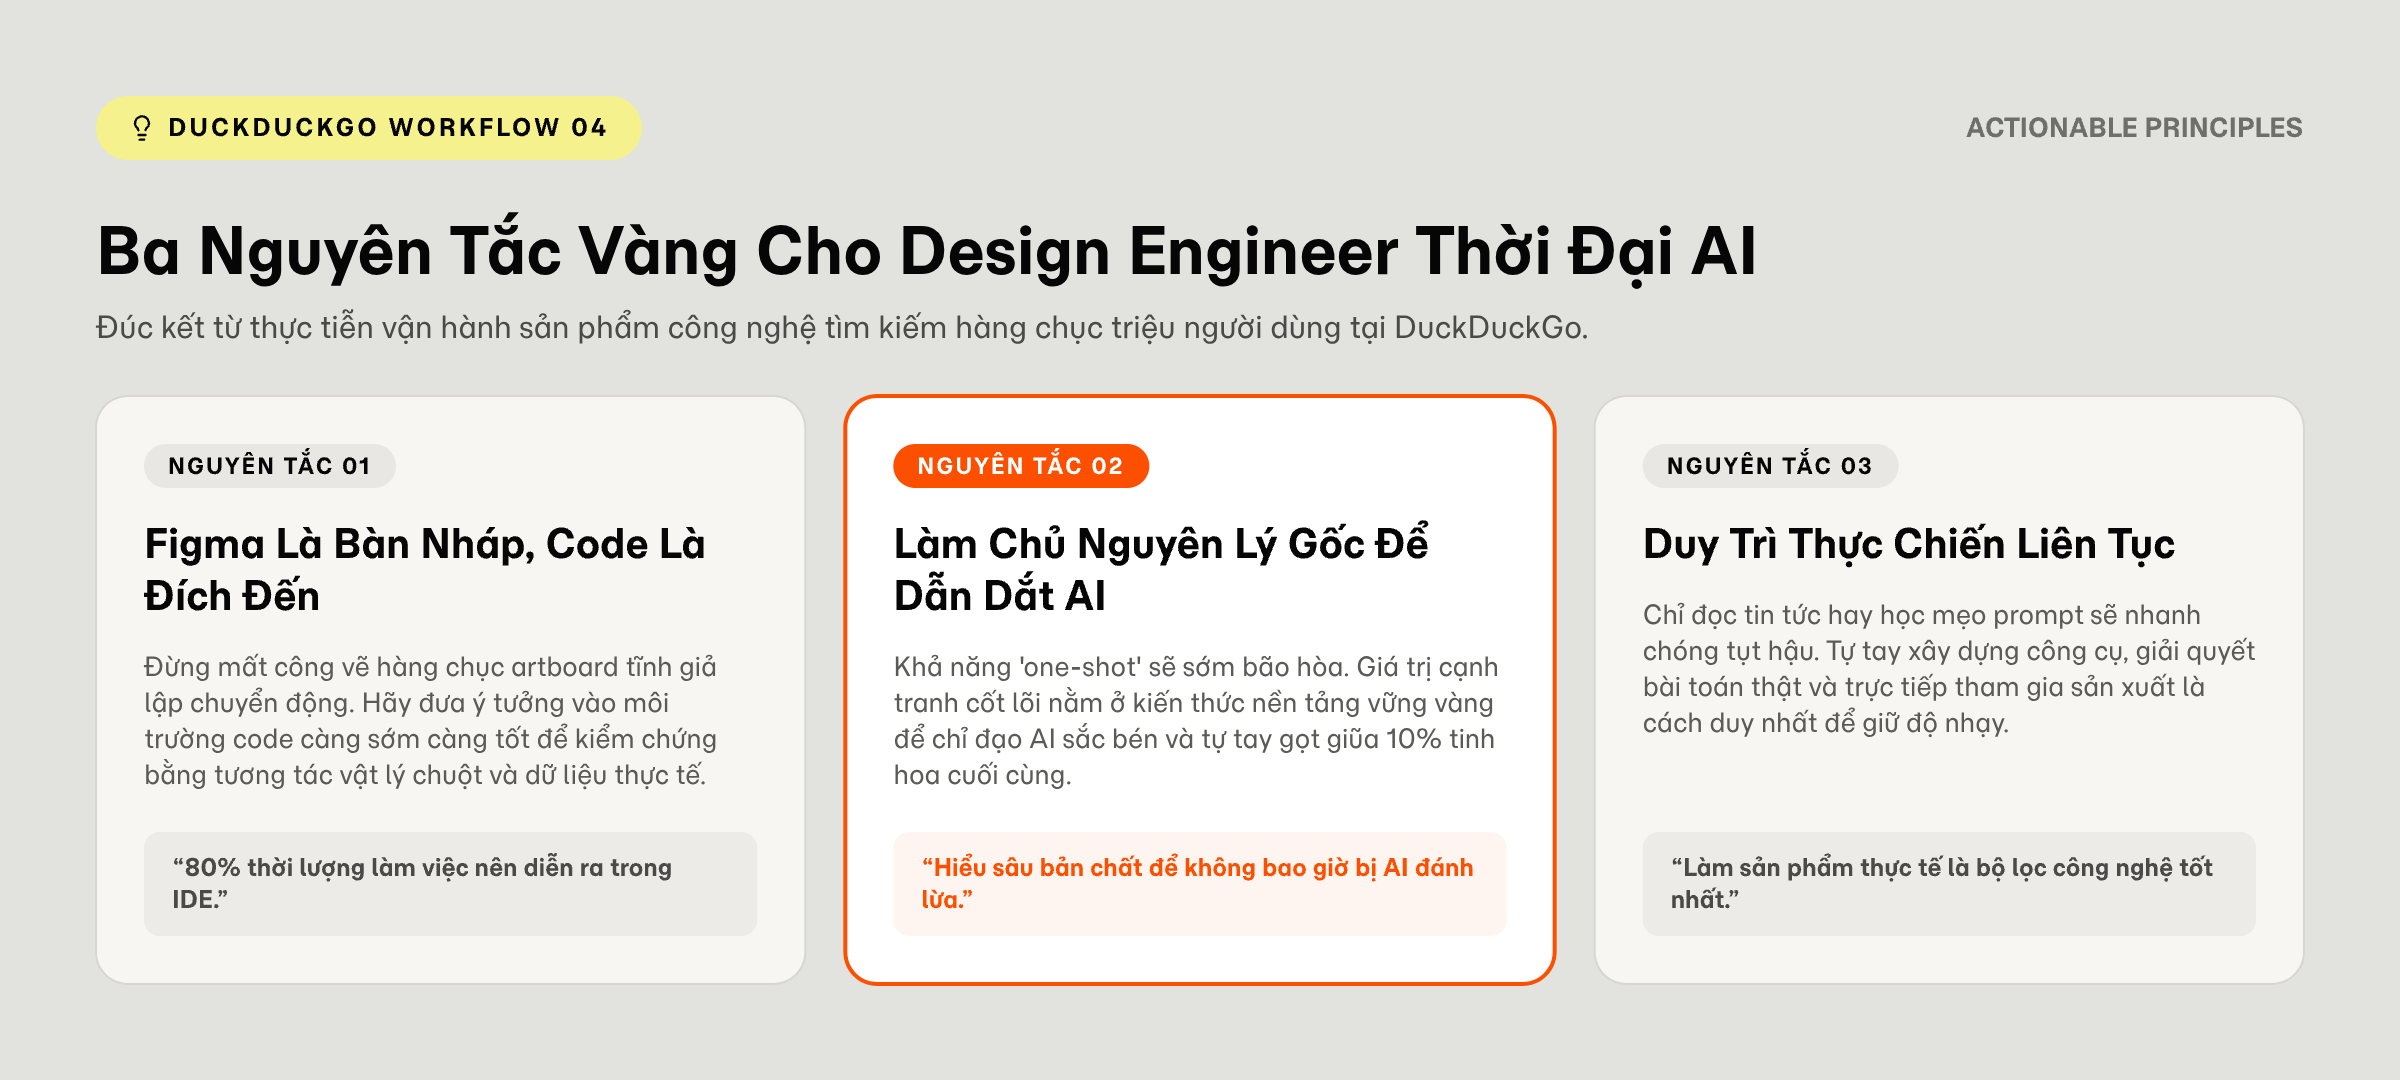
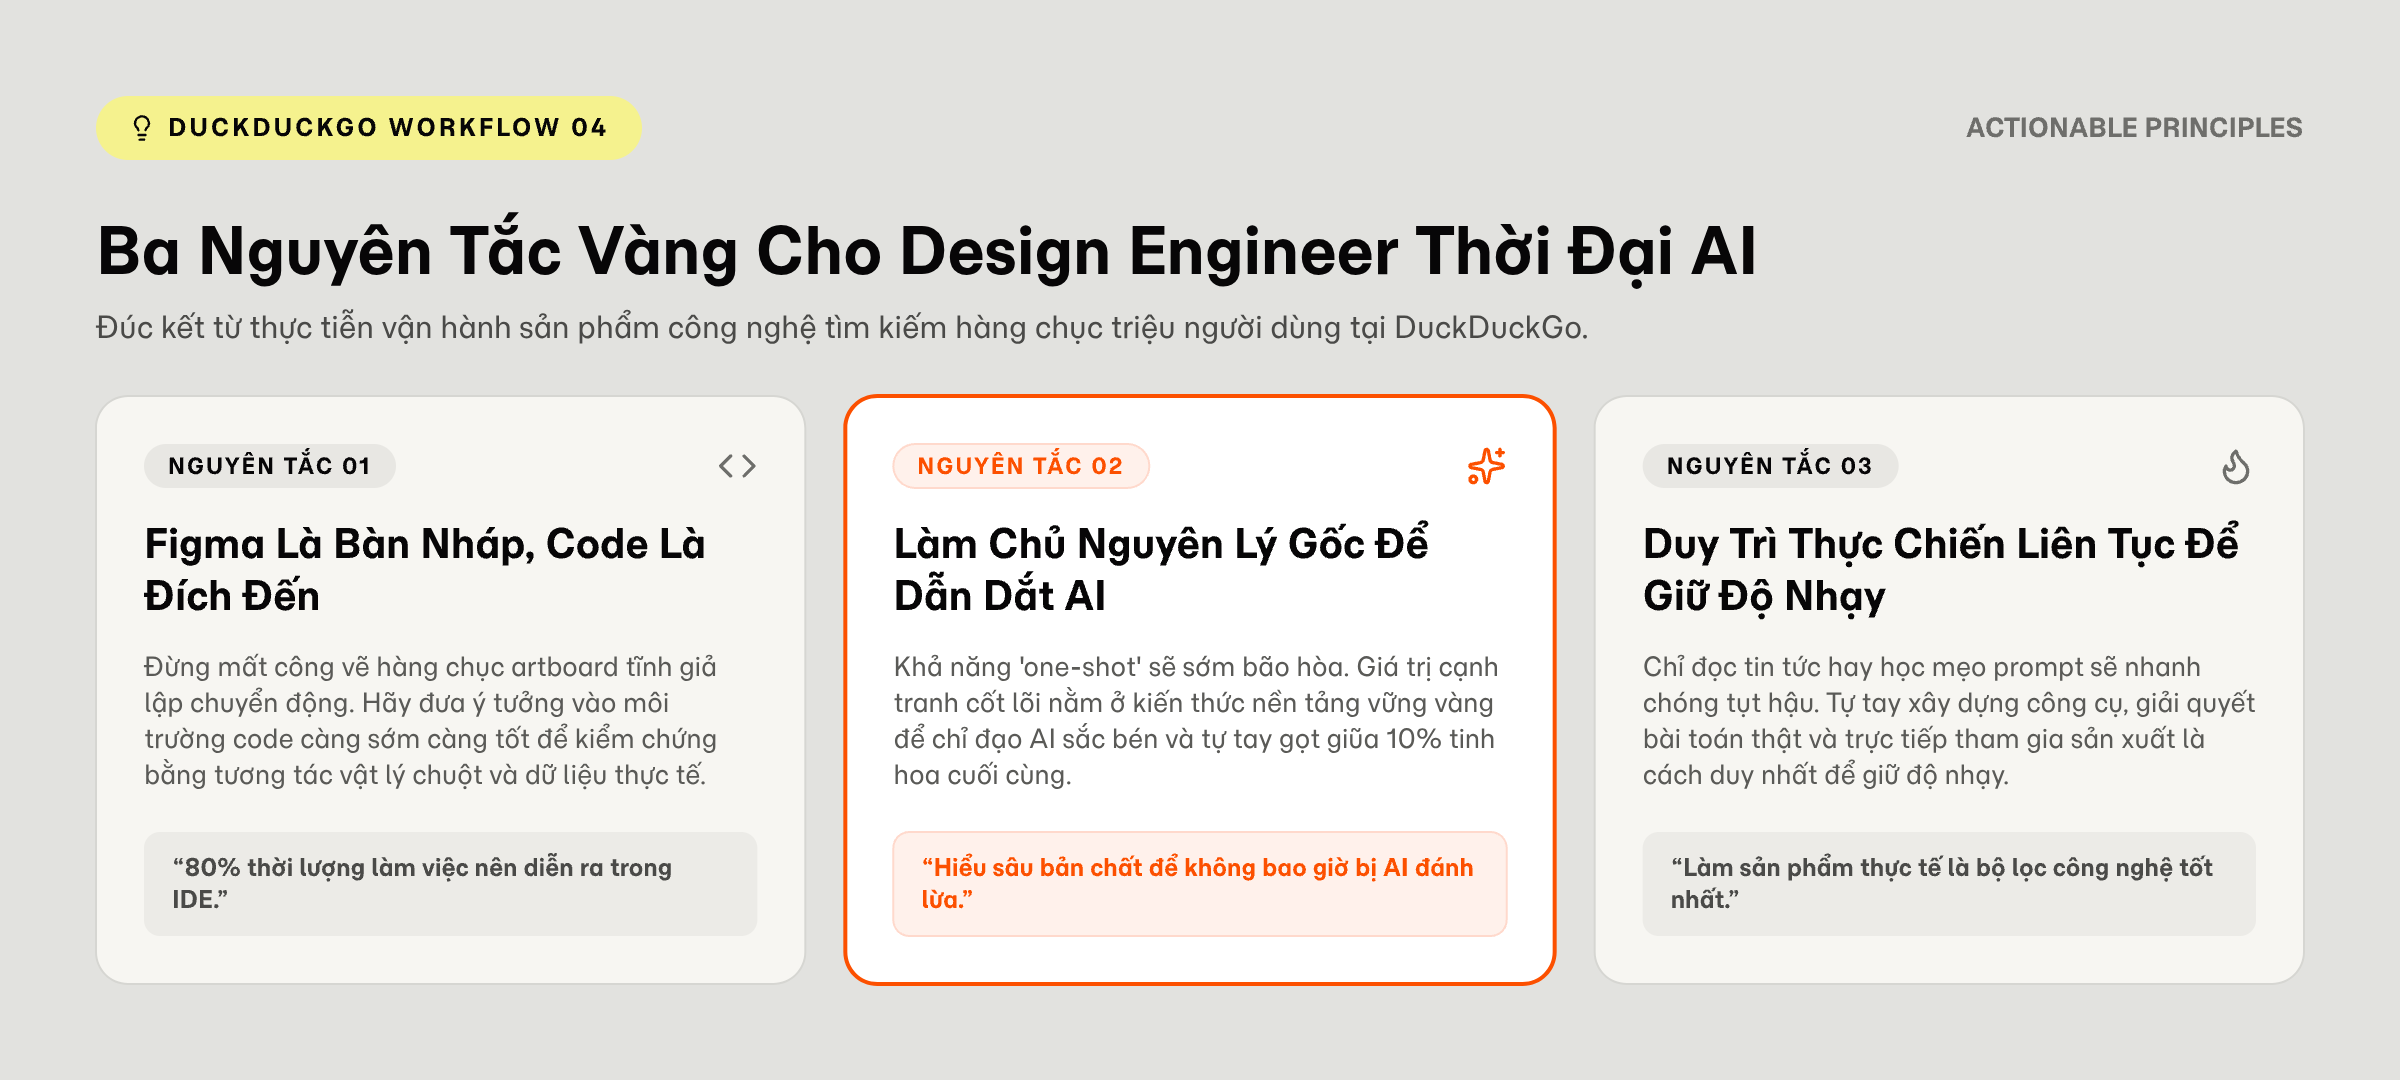
fix(design): resolve layout clipping, contrast and spacing in DuckDuckGo infographics
- vnZGL: fix footer metric text collision and refine flow spacing
- GbhQb: fix title text overflow clipping and adopt soft Ember tint styling
- lMutS: expand height to 760px to eliminate third item squashing
- L0Blge: balance title heights, add Lucide concept icons and align quote boxes

diff --git a/.claude/skills/digest/SKILL.md b/.claude/skills/digest/SKILL.md
@@ -22,10 +22,33 @@ chèn ảnh vào bài + cập nhật INDEX.md
 
 ## Chặng 1 — Dọn & đọc
 
-Transcript YouTube tự động thường lặp mỗi câu 2-3 lần (rác caption). Dọn trước khi
-đọc, đừng đọc bản rác. Giữ mốc thời gian `[m:ss]` để trích dẫn trong outline.
+**Nhận dạng loại raw trước.** Không phải file nào cũng là transcript.
 
-Ghi bản sạch ra scratchpad, **không** ghi đè file trong `docs/raw/`.
+| Loại | Dấu hiệu | Xử lý |
+|---|---|---|
+| Transcript tự động | Có `[m:ss]`, câu lặp chồng lấn | Dedupe (xem dưới) rồi đọc |
+| Bài viết / blog | Có heading, đoạn văn mạch lạc | Đọc thẳng |
+| Ghi chú / brief | Ngắn, gạch đầu dòng | Đọc thẳng |
+
+### Dedupe transcript — đừng làm ẩu
+
+Caption YouTube lặp theo **cửa sổ trượt**, chồng lấn *giữa chừng câu*, không phải
+lặp nguyên dòng:
+
+```
+So, what was your old workflow like? So, what was your old workflow like? Like
+before using AI tools, what was Like before using AI tools, what was Like before
+using AI tools, what was your traditional workflow like?
+```
+
+Dedupe theo dòng **sẽ hỏng**. Phải khử chồng lấn ở mức cụm từ. Viết script cho
+từng file (mẫu lặp mỗi nguồn mỗi khác), chạy, rồi **đọc lại vài đoạn ngẫu nhiên
+của bản sạch để xác nhận không mất chữ** trước khi tin nó.
+
+Giữ mốc `[m:ss]` để trích dẫn trong outline.
+
+Ghi bản sạch ra scratchpad, **không** ghi đè file trong `docs/raw/`. Bản sạch phải
+nhỏ hơn hẳn bản gốc — đọc bản sạch, đừng nạp bản gốc vào context.
 
 ## Chặng 2 — Outline (CỔNG 1)
 
@@ -52,8 +75,12 @@ trạng thái: chờ duyệt
 **Hình:** <loại> — "<mô tả hình>"   (hoặc: không cần hình)
 ```
 
-**DỪNG LẠI.** Không viết bài khi `trạng thái` chưa là `đã duyệt`.
-User sửa file trực tiếp — đổi thứ tự mục, đổi loại hình, gạch mục thừa.
+**DỪNG LẠI.** Không viết bài khi user chưa duyệt.
+
+User duyệt kiểu nào cũng được — gật trong chat, hoặc sửa thẳng vào file (đổi thứ
+tự mục, đổi loại hình, gạch mục thừa). **Đừng bắt user tự sửa dòng YAML.** Khi họ
+gật, *tôi* đổi `trạng thái` thành `đã duyệt` — trường đó là bản ghi cho phiên sau,
+không phải nút bấm cho user vặn.
 
 ## Chặng 3 — Viết bài (CỔNG 2)
 
@@ -76,12 +103,18 @@ mới dựng hình.
 Vòng lặp cho mỗi hình:
 
 ```
-dựng trong gitbook.pen  →  xuất PNG  →  Read chính file PNG đó và NHÌN
-                                     →  đối chiếu checklist  →  sửa  →  xuất lại
+dựng trong gitbook.pen  →  xuất bản nháp 1x RA SCRATCHPAD
+                        →  Read file PNG đó và NHÌN
+                        →  đối chiếu checklist  →  sửa  →  xuất lại
+                        →  sạch rồi mới xuất 2x vào assets/design/
 ```
 
 Đọc cấu trúc bằng `get_app_state` **không đủ** — lỗi tràn chữ và sập layout chỉ
 lộ ra khi nhìn ảnh thật. Bắt buộc phải `Read` file PNG.
+
+Soi bản nháp ở **1x trong scratchpad**, không phải 2x: ảnh 2x rộng 2400px, đọc
+vài vòng lặp cho vài hình là rất tốn. 1x vẫn đủ thấy tràn chữ, sập khung, lệch
+hàng. Chỉ bản đã sạch mới xuất 2x vào `assets/design/`.
 
 Giữ `placeholder: true` trên khung suốt lúc đang làm, bỏ ngay khi xong.
 
@@ -94,8 +127,9 @@ Giữ `placeholder: true` trên khung suốt lúc đang làm, bỏ ngay khi xong
 3. **Nội dung bị cắt** — frame `clip: true` nuốt luôn phần tràn, không lòi ra cho
    thấy. Phóng to frame cho vừa nội dung.
 4. **Chữ vô hình** — text không có `fill` thì không hiện. Emoji cũng cần `fill`.
-5. **Tương phản** — Obsidian trên Pumice/Limestone thì ổn; Sulfur trên Limestone
-   thì không đọc được.
+5. **Tương phản** — Obsidian trên Pumice/Limestone đạt tương phản cao, dùng thoải
+   mái. **Sulfur là màu NỀN cho chữ Obsidian, không bao giờ là màu chữ** —
+   Sulfur trên Limestone chỉ đạt ~1.1:1, vô hình. Obsidian trên Sulfur đạt ~15.8:1.
 6. **Căn lề và khoảng cách** — có đều không, có lệch hàng không.
 7. **Một Ember duy nhất** trong hình.
 8. **Đúng loại hình** như outline đã chốt (đừng vẽ `flow` khi outline ghi `loop`).
@@ -154,9 +188,11 @@ designer có nghề không thấy bị hạ thấp.
 - `{% embed url="..." %}` — nhúng video nguồn, đừng để link trần
 - frontmatter: `description:`, `icon:`, `cover:`
 
-### Kỷ luật
+### Mật độ hình — user quyết, không phải tôi
 
-- **Không phải mục nào cũng cần hình.** Chỉ vẽ khi ý có quan hệ *không gian* —
-  song song, vòng lặp, phân nhánh. Mục chỉ liệt kê thì để gạch đầu dòng.
-- Bài CNN hiện tại có 6/6 mục đều có hình. Tỷ lệ đó quá cao; khi mọi thứ đều được
-  minh hoạ thì không gì nổi bật.
+Trong outline, **đề xuất** hình cho mục nào ý có quan hệ *không gian* (song song,
+vòng lặp, phân nhánh, vị trí trên màn hình) và ghi rõ mục nào tôi thấy không cần.
+
+Nhưng đó chỉ là đề xuất. **User là UI/UX designer và cả dự án này xoay quanh việc
+giải thích bằng hình** — họ muốn 100% số mục có hình thì đó là lựa chọn của họ,
+không phải lỗi cần sửa. Đừng viện "kỷ luật thị giác" để ép giảm số hình.

diff --git a/.claude/skills/digest/references/visual-vocabulary.md b/.claude/skills/digest/references/visual-vocabulary.md
@@ -51,13 +51,13 @@ một hệ thống thay vì một tập hợp rời rạc.
 
 Chữ: Momo Trust Sans. Icon: Lucide.
 
-## Khi nào KHÔNG vẽ
+## Khi hình thực sự thêm giá trị
 
-Chỉ vẽ khi hình làm được việc mà ba câu chữ không làm được — tức khi ý có quan hệ
-**không gian**: song song, vòng, phân nhánh, vị trí trên màn hình.
+Hình phát huy mạnh nhất khi ý có quan hệ **không gian**: song song, vòng, phân
+nhánh, vị trí trên màn hình. Đó là thứ chữ diễn đạt kém nhất.
 
-Mục chỉ liệt kê vài gạch đầu dòng thì để nguyên gạch đầu dòng. Nhanh hơn, đọc dễ
-hơn, tìm kiếm được, và sửa không tốn gì.
+Mục chỉ là vài gạch đầu dòng rời rạc thì hình thêm được ít hơn — nhưng **đây là
+gợi ý, không phải luật**. User quyết mật độ hình, không phải tôi.
 
 ## Tên khung trong canvas
 
